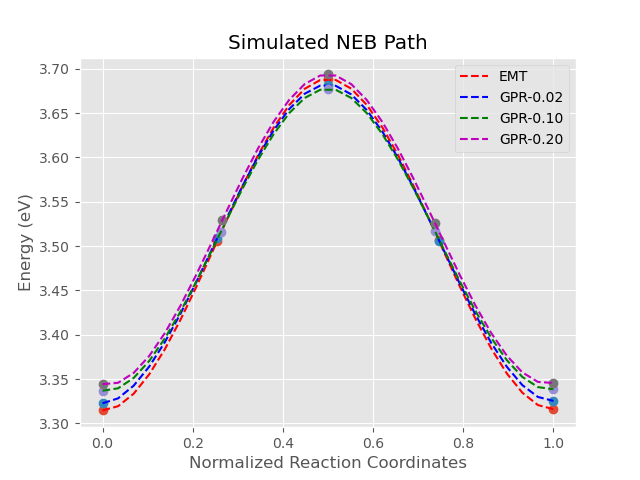
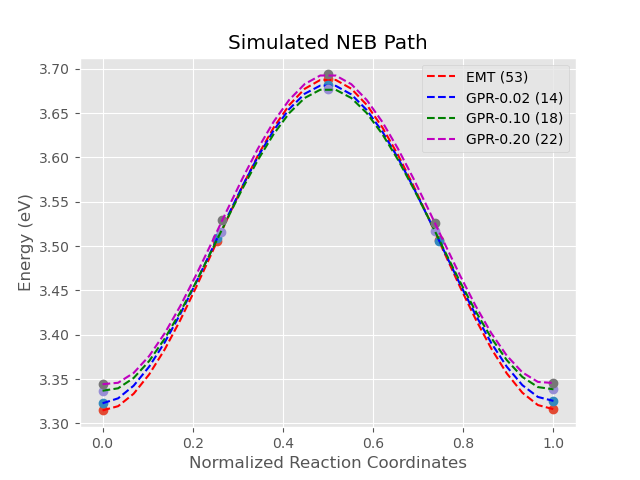
cleanup docoumentation

Changed region(s): [[0.7188, 0.125, 0.875, 0.3125]]

diff --git a/examples/emt-mpi.py b/examples/emt-mpi.py
@@ -16,8 +16,8 @@ fmax = 0.05
 # Run NEB with EMT calculator
 images = neb_generate_images(initial, final, num_images)
 if rank == 0:
-    images, energies = neb_calc(images, EMT(), fmax=fmax, steps=100)
-    data = [(images, energies, 'EMT')]
+    images, energies, steps = neb_calc(images, EMT(), fmax=fmax, steps=100)
+    data = [(images, energies, f'EMT ({(steps+1)*(len(images)-2)+2})')]
 
 # Run NEB with gpr calculator in different etols
 for etol in [0.02, 0.1, 0.2]:
@@ -33,11 +33,12 @@ for etol in [0.02, 0.1, 0.2]:
     calc = GPR(base_calculator=EMT(), ff=gp_model)
 
     # Run NEB calculation
-    images, energies = neb_calc(images, calc, fmax=fmax, steps=100)
+    images, energies, _ = neb_calc(images, calc, fmax=fmax, steps=100)
 
     if rank == 0:
         print(gp_model)
-        data.append((images, energies, f'GPR-{etol:.2f}'))
+        N_calls = gp_model.count_use_base
+        data.append((images, energies, f'GPR-{etol:.2f} ({N_calls})'))
 
 if rank == 0:
     neb_plot_path(data, figname='NEB-test.png')

diff --git a/examples/emt-serial.py b/examples/emt-serial.py
@@ -10,8 +10,8 @@ fmax = 0.05
 
 # Run NEB with EMT calculator
 images = neb_generate_images(initial, final, num_images)
-images, energies = neb_calc(images, EMT(), fmax=fmax, steps=100)
-data = [(images, energies, 'EMT')]
+images, energies, steps = neb_calc(images, EMT(), fmax=fmax, steps=100)
+data = [(images, energies, f'EMT ({steps*(len(images)-2)+2})')]
 
 # Run NEB with gpr calculator in different etols
 for etol in [0.02, 0.1, 0.2]:
@@ -26,8 +26,9 @@ for etol in [0.02, 0.1, 0.2]:
     calc = GPR(base_calculator=EMT(), ff=gp_model)
 
     # Run NEB calculation
-    images, energies = neb_calc(images, calc, fmax=fmax, steps=100)
+    images, energies, _ = neb_calc(images, calc, fmax=fmax, steps=100)
     print(gp_model)
-    data.append((images, energies, f'GPR-{etol:.2f}'))
+    N_calls = gp_model.count_use_base
+    data.append((images, energies, f'GPR-{etol:.2f} ({N_calls})'))
 
 neb_plot_path(data, figname='NEB-test.png')

diff --git a/gpr_calc/NEB.py b/gpr_calc/NEB.py
@@ -41,7 +41,7 @@ def neb_calc(images, calculator, algo='BFGS', fmax=0.05, steps=100):
     eng = [image.get_potential_energy() for image in images]
 
     # Return the images and energie
-    return images, eng
+    return images, eng, opt.nsteps
     #return data
 
 def neb_generate_images(init, final, num_images=5, IDPP=False):

diff --git a/setup.py b/setup.py
@@ -3,7 +3,7 @@ import os
 
 # Set compiler to g++
 os.environ['CC'] = 'g++'
-this_directory = os.path.abspath(path.dirname(__file__))
+this_directory = os.path.abspath(os.path.dirname(__file__))
 with open(os.path.join(this_directory, "README.md"), encoding="utf-8") as f:
     long_description = f.read()
 

diff --git a/README.md b/README.md
@@ -1,23 +1,27 @@
-# On the Fly Atomistic Calculator
+# On-the-Fly Atomistic Calculator
 
-This is an On-the-Fly Atomistic Calculator based on Gaussian Process Regression (GPR), designed as an ASE add-on calculator. It incorporates a hybrid approach by combining:
+This is an on-the-fly atomistic calculator based on Gaussian Process Regression (GPR), designed as an add-on calculator for the Atomic Simulation Environment (ASE). It employs a hybrid approach, combining:
 
-
-1. `Base calculator`: A high-fidelity ab initio calculator (e.g., DFT) that serves as the reference (“gold standard”) for accurate but computationally expensive calculations.
-2. `Surrogate GPR calculator`: A computationally inexpensive model trained on-the-fly to approximate the base calculator and accelerate simulations.
+1.  `Base calculator`: A high-fidelity ab initio calculator (e.g., DFT) that serves as the reference ("gold standard") for accurate but computationally expensive calculations.
+2.  `Surrogate GPR calculator`: A computationally inexpensive model trained on-the-fly to approximate the base calculator, significantly accelerating simulations.
 
 ## Motivation
 
-Many atomistic simulations—such as geometry optimization, barrier calculations, molecular dynamics (MD), and equation-of-state (EOS) simulations—require sampling a large number of atomic configurations in a compact phase space. The workhorse method for such calculations is often Density Functional Theory (DFT), which provides a balance between accuracy and computational cost. However, DFT can still be prohibitively expensive, particularly for large systems or simulations for many snapshots.
-
+Many atomistic simulations, such as geometry optimizations, barrier calculations (e.g., NEB), molecular dynamics (MD), and equation-of-state (EOS) simulations, require sampling a large number of atomic configurations within a relatively small phase space. Density Functional Theory (DFT) is frequently used for these calculations, offering a balance between accuracy and computational cost. However, DFT calculations can still be prohibitively expensive, especially for large systems or long simulation times. The GPR calculator aims to alleviate this computational bottleneck. **At the moment, we focus on the NEB simulation only.**
 
 ## How It Works?
 
-1.	Initially, the calculator invokes the base calculator (e.g., a DFT code) to compute energy, forces, and stress tensors for each atomic configuration.
-2.	These computed data points are used to train an internal surrogate model based on Gaussian Process Regression (GPR).
-3.	As the surrogate model accumulates training data, it gradually learns the energy and force landscape of the system.
-4.	Once the model achieves sufficient accuracy, it begins predicting the mean and variance of energy, forces, and stress tensors, enabling efficient on-the-fly calculations.
-5.	If the predicted uncertainty is low, the model replaces the expensive DFT evaluations. Otherwise, the base calculator is called again to refine the model.
+The GPR calculator operates through an iterative learning and prediction process:
+
+1.  **Initial Data Collection:** The simulation begins by using the `base calculator` (e.g., DFT) to calculate energies and forces for a small set of initial atomic configurations. These data serve as the initial training set for the GPR model.
+2.  **Surrogate Model Training:** A Gaussian Process Regression (GPR) model is trained using the data obtained from the base calculator. This model learns to predict the energy and forces of new atomic configurations based on the existing training data.
+3.  **On-the-Fly Prediction and Uncertainty Quantification:** During the simulation, for each new atomic configuration, the GPR model predicts the energy and forces, along with an estimate of the uncertainty in these predictions.
+4.  **Choice of Calculator:** The GPR calculator adaptively decides whether to use the GPR model's prediction or to invoke the base calculator based on the predicted uncertainty.
+    *   If the uncertainty is below a user-defined threshold, the GPR model's prediction is used, saving computational cost.
+    *   If the uncertainty is above the threshold, the base calculator is invoked to obtain a more accurate calculation. The new data point is then added to the training set, and the GPR model is retrained.
+5.  **Iterative Refinement:** Steps 3 and 4 are repeated throughout the simulation. As the GPR model accumulates more data, its accuracy improves, leading to a greater reliance on the surrogate model and a reduction in the number of calls to the base calculator.
+
+This adaptive strategy allows the GPR calculator to achieve a balance between accuracy and computational efficiency, by using the computationally expensive base calculator only when necessary.
 
 ## Installation
 ```
@@ -63,9 +67,14 @@ for etol in [0.02, 0.1, 0.2]:
 
 neb_plot_path(data, figname='NEB-test.png')
 ```
+This example demonstrates NEB calculations using:
 
-The output should look like the following. In the process of NEB calculation, the base calculators were used frequently in the beginning.
-Some of the representative data points were then added to the GPR model. After the model becomes more accurate, the predictions from surrogate model were useded more frequently.
+1.  A pure `EMT` calculator (for rapid testing).
+2.  The GPR calculator with `EMT` as the base calculator and an uncertainty threshold of 0.02 eV per structure.
+3.  The GPR calculator with `EMT` as the base calculator and an uncertainty threshold of 0.10 eV per structure.
+4.  The GPR calculator with `EMT` as the base calculator and an uncertainty threshold of 0.20 eV per structure.
+
+The output below illustrates the NEB calculation process. Initially, the base calculator (`EMT`) is used to generate reference data. These data points are then added to the GPR model. As the model learns and becomes more accurate, predictions from the surrogate model are used more frequently, reducing the computational cost.
 
 ```
 Calculate E/F for image 0: 3.314754
@@ -75,7 +84,6 @@ Calculate E/F for image 3: 3.724974
 Calculate E/F for image 4: 3.316117
 ------Gaussian Process Regression (0/2)------
 Kernel: 1.00000**2 *RBF(length=0.10000) 5 energy (0.00769) 15 forces (0.10000)
-
 
 Update GP model => 20
 Loss:       -2.916  1.000  0.100
@@ -103,14 +111,6 @@ From Base model , E: 0.093/3.527/3.723, F: 0.303/0.594/0.309
 ...
 ...
 ...
-From Surrogate ,  E: 0.081/0.200/3.532, F: 0.091/0.120/0.404
-From Surrogate ,  E: 0.095/0.200/3.695, F: 0.061/0.120/0.073
-From Surrogate ,  E: 0.081/0.200/3.529, F: 0.090/0.120/0.388
-BFGS:   38 20:08:23        3.695437        0.074676
-From Surrogate ,  E: 0.081/0.200/3.531, F: 0.092/0.120/0.404
-From Surrogate ,  E: 0.095/0.200/3.695, F: 0.062/0.120/0.059
-From Surrogate ,  E: 0.081/0.200/3.528, F: 0.092/0.120/0.388
-BFGS:   39 20:08:27        3.695121        0.065271
 From Surrogate ,  E: 0.081/0.200/3.529, F: 0.095/0.120/0.400
 From Surrogate ,  E: 0.095/0.200/3.694, F: 0.062/0.120/0.051
 From Surrogate ,  E: 0.081/0.200/3.526, F: 0.094/0.120/0.390
@@ -128,16 +128,19 @@ Total number of surrogate calls: 106
 Total number of gpr_fit calls: 4
 ```
 
-The generated model will be stored as
+The trained GPR model is saved as:
 
-- a `json` file to store the parameters
-- a `db` file to store training structure, reference energy and forces
+*   A `json` file containing the model parameters.
+*   A `db` file storing the training structures, energies, and forces.
 
-The final result is shown as follows
- <img src="https://raw.githubusercontent.com/MaterSim/GPR_calculator/master/database/NEB-test.png" alt="NEB"/>
+The following figure illustrates a typical NEB path calculated using the GPR calculator:
+
+![NEB Path](https://raw.githubusercontent.com/MaterSim/GPR_calculator/master/database/NEB-test.png)
+
+The results demonstrate that the GPR calculator, even with a limited number of base calculator calls, can achieve reasonable accuracy compared to the reference calculation. A smaller energy uncertainty threshold (`etol`) generally leads to more accurate results. In scenarios where each base calculator call is computationally expensive, the GPR calculator offers a significant speedup without sacrificing accuracy. This approach is particularly beneficial for handling computationally demanding tasks such as large-scale NEB calculations for surface diffusion and reaction studies.
 
 
-It can be reused as follows
+In addition, the trained model can be reused as follows if you want to restart the previously unconverged calculation.
 
 ```python
 from gpr_calc.gaussianprocess import GaussianProcess as GPR
@@ -147,4 +150,4 @@ print(gpr)
 gpr.validate_data(show=True)
 gpr.fit(opt)
 ```
-For more productive example using VASP as the base calculator, please check the [Examples](https://github.com/MaterSim/GPR_calculator/tree/main/examples).
+For more productive examples using VASP as the base calculator, please check the [Examples](https://github.com/MaterSim/GPR_calculator/tree/main/examples).
